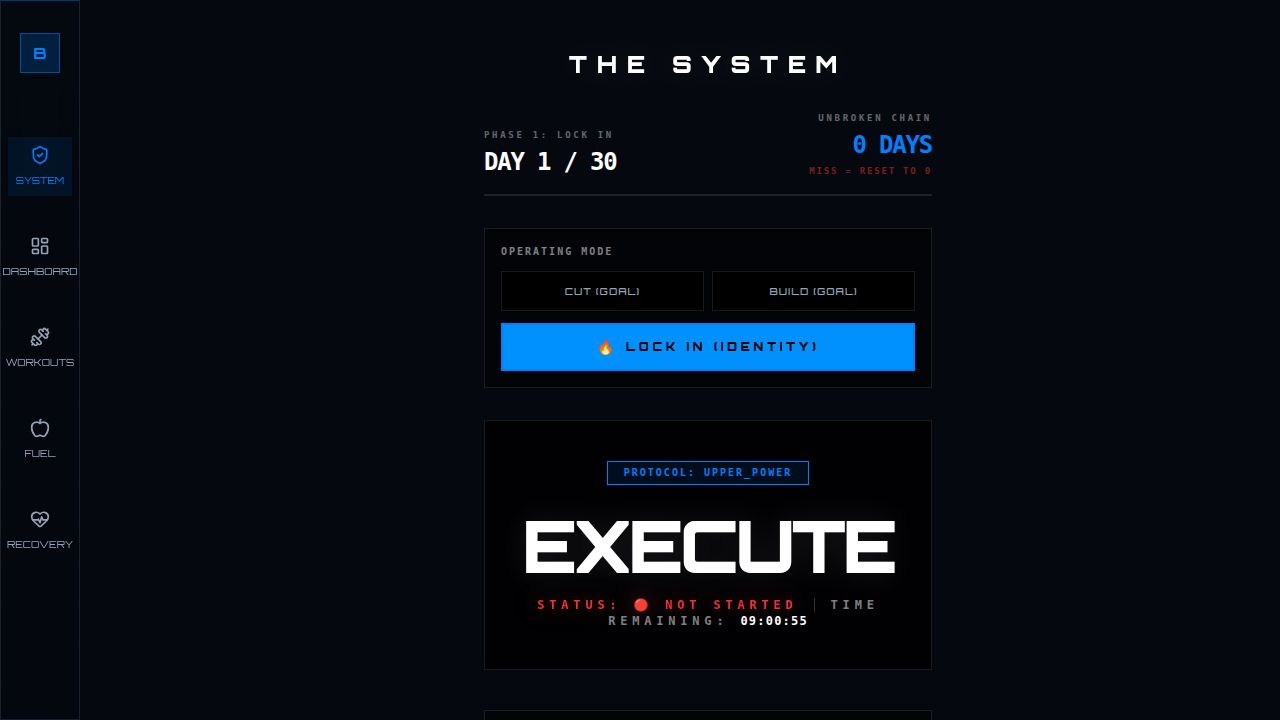
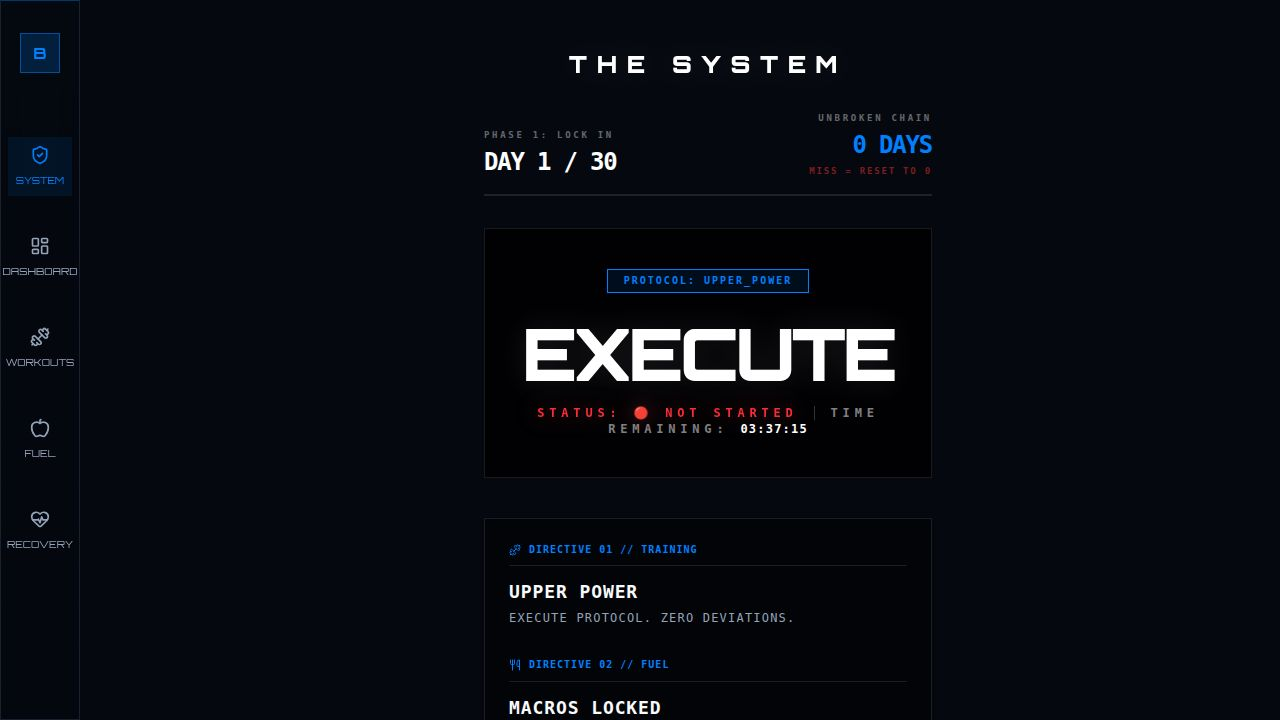
Remove operating mode selection from main page
Remove operating mode selection UI from home.tsx and update onboarding.tsx to use new mode identifiers.

Replit-Commit-Author: Agent
Replit-Commit-Session-Id: 25b280e0-415f-4aa2-aa81-2b472545ac74
Replit-Commit-Checkpoint-Type: full_checkpoint
Replit-Commit-Event-Id: 74b63538-df10-4b98-917e-924b76e0a3f9
Replit-Commit-Screenshot-Url: https://storage.googleapis.com/screenshot-production-us-central1/e563b148-b593-4327-8bd6-2846d65d3909/25b280e0-415f-4aa2-aa81-2b472545ac74/HtAArhj
Replit-Helium-Checkpoint-Created: true

diff --git a/client/src/pages/onboarding.tsx b/client/src/pages/onboarding.tsx
@@ -85,36 +85,20 @@ export default function Onboarding() {
     let fatMultiplier = 0.3;
     let recoveryPriority = "Moderate";
 
-    switch(selectedMode) {
-      case "Operator Lean":
+    switch(selectedMode as any) {
+      case "cut":
         kcal -= 500;
         proteinMultiplier = 1.1; 
         recoveryPriority = "High (Deficit Protocol)";
         break;
-      case "Athletic Build":
-        kcal += 0;
-        proteinMultiplier = 1.0;
-        recoveryPriority = "Moderate";
-        break;
-      case "Elite Conditioning":
-        kcal += 200;
-        proteinMultiplier = 0.9;
-        fatMultiplier = 0.25; 
-        recoveryPriority = "Critical (CNS Taxing)";
-        break;
-      case "Lean Mass Phase":
+      case "build":
         kcal += 300;
         proteinMultiplier = 1.0;
         recoveryPriority = "High (Growth Protocol)";
         break;
-      case "Performance Build":
-        kcal += 500;
+      case "lock-in":
+        kcal += 0;
         proteinMultiplier = 1.0;
-        recoveryPriority = "High (Heavy Load)";
-        break;
-      case "Recomp Phase":
-        kcal -= 100;
-        proteinMultiplier = 1.1; 
         recoveryPriority = "Moderate";
         break;
     }
@@ -452,12 +436,9 @@ export default function Onboarding() {
             
             <div className="space-y-4 mt-8">
               {[
-                { id: "Operator Lean", title: "Operator Lean", desc: "Strip fat. Maximize relative strength. Slight caloric deficit, moderate carbs.", icon: Target },
-                { id: "Athletic Build", title: "Athletic Build", desc: "Performance & aesthetics. Maintenance calories, high protein.", icon: Activity },
-                { id: "Elite Conditioning", title: "Elite Conditioning", desc: "Maximal work capacity. High carb, high recovery demands.", icon: HeartPulse },
-                { id: "Lean Mass Phase", title: "Lean Mass Phase", desc: "Accumulate lean tissue. Slight surplus, high volume training.", icon: ShieldCheck },
-                { id: "Performance Build", title: "Performance Build", desc: "Focus on absolute strength & mass. Heavy surplus.", icon: Dumbbell },
-                { id: "Recomp Phase", title: "Recomp Phase", desc: "Lose fat, build muscle simultaneously. Strict maintenance protocol.", icon: Crosshair }
+                { id: "cut", title: "Operator Lean (Cut)", desc: "Strip fat. Maximize relative strength. Slight caloric deficit, moderate carbs.", icon: Target },
+                { id: "build", title: "Athletic Build (Build)", desc: "Performance & aesthetics. Maintenance calories, high protein.", icon: Activity },
+                { id: "lock-in", title: "Lock-In Phase", desc: "Maximal work capacity. High carb, high recovery demands.", icon: HeartPulse }
               ].map(mode => (
                 <div 
                   key={mode.id}

diff --git a/client/src/pages/home.tsx b/client/src/pages/home.tsx
@@ -235,43 +235,6 @@ export default function Home() {
         </div>
       </div>
 
-      <div className="w-full max-w-md mb-8">
-        <div className="bg-black/50 p-4 border border-white/10">
-          <div className="text-[10px] text-white/50 font-bold uppercase tracking-[0.2em] mb-3">Operating Mode</div>
-          <div className="grid grid-cols-2 gap-2 mb-3">
-            {(["cut", "build"] as const).map((modeOption) => (
-              <Button
-                key={modeOption}
-                variant="outline"
-                size="sm"
-                onClick={() => setMode(modeOption)}
-                className={`font-display uppercase tracking-widest text-[10px] h-10 rounded-none border ${
-                  state.mode === modeOption 
-                    ? "bg-white text-black hover:bg-white/90 border-white" 
-                    : "bg-black border-white/10 text-muted-foreground hover:bg-white/10 hover:text-white"
-                }`}
-              >
-                {modeOption} (GOAL)
-              </Button>
-            ))}
-          </div>
-          <Button
-            variant="outline"
-            onClick={() => setMode("lock-in")}
-            className={`w-full font-display font-black uppercase tracking-[0.3em] text-xs h-12 rounded-none border-2 transition-all relative overflow-hidden group ${
-              state.mode === "lock-in" 
-                ? "bg-primary text-black hover:bg-primary/90 border-primary shadow-[0_0_25px_hsl(var(--primary)/0.4)]" 
-                : "bg-primary/5 border-primary/50 text-primary hover:bg-primary/20 hover:border-primary shadow-[0_0_10px_hsl(var(--primary)/0.1)]"
-            }`}
-          >
-            {state.mode === "lock-in" && <div className="absolute inset-0 bg-white/20 animate-pulse mix-blend-overlay pointer-events-none"></div>}
-            <span className="relative z-10 flex items-center justify-center gap-2 w-full">
-              <span className="text-sm">🔥</span> LOCK IN (IDENTITY)
-            </span>
-          </Button>
-        </div>
-      </div>
-
       {/* Main Display */}
       <main className="w-full max-w-md space-y-6">
 
